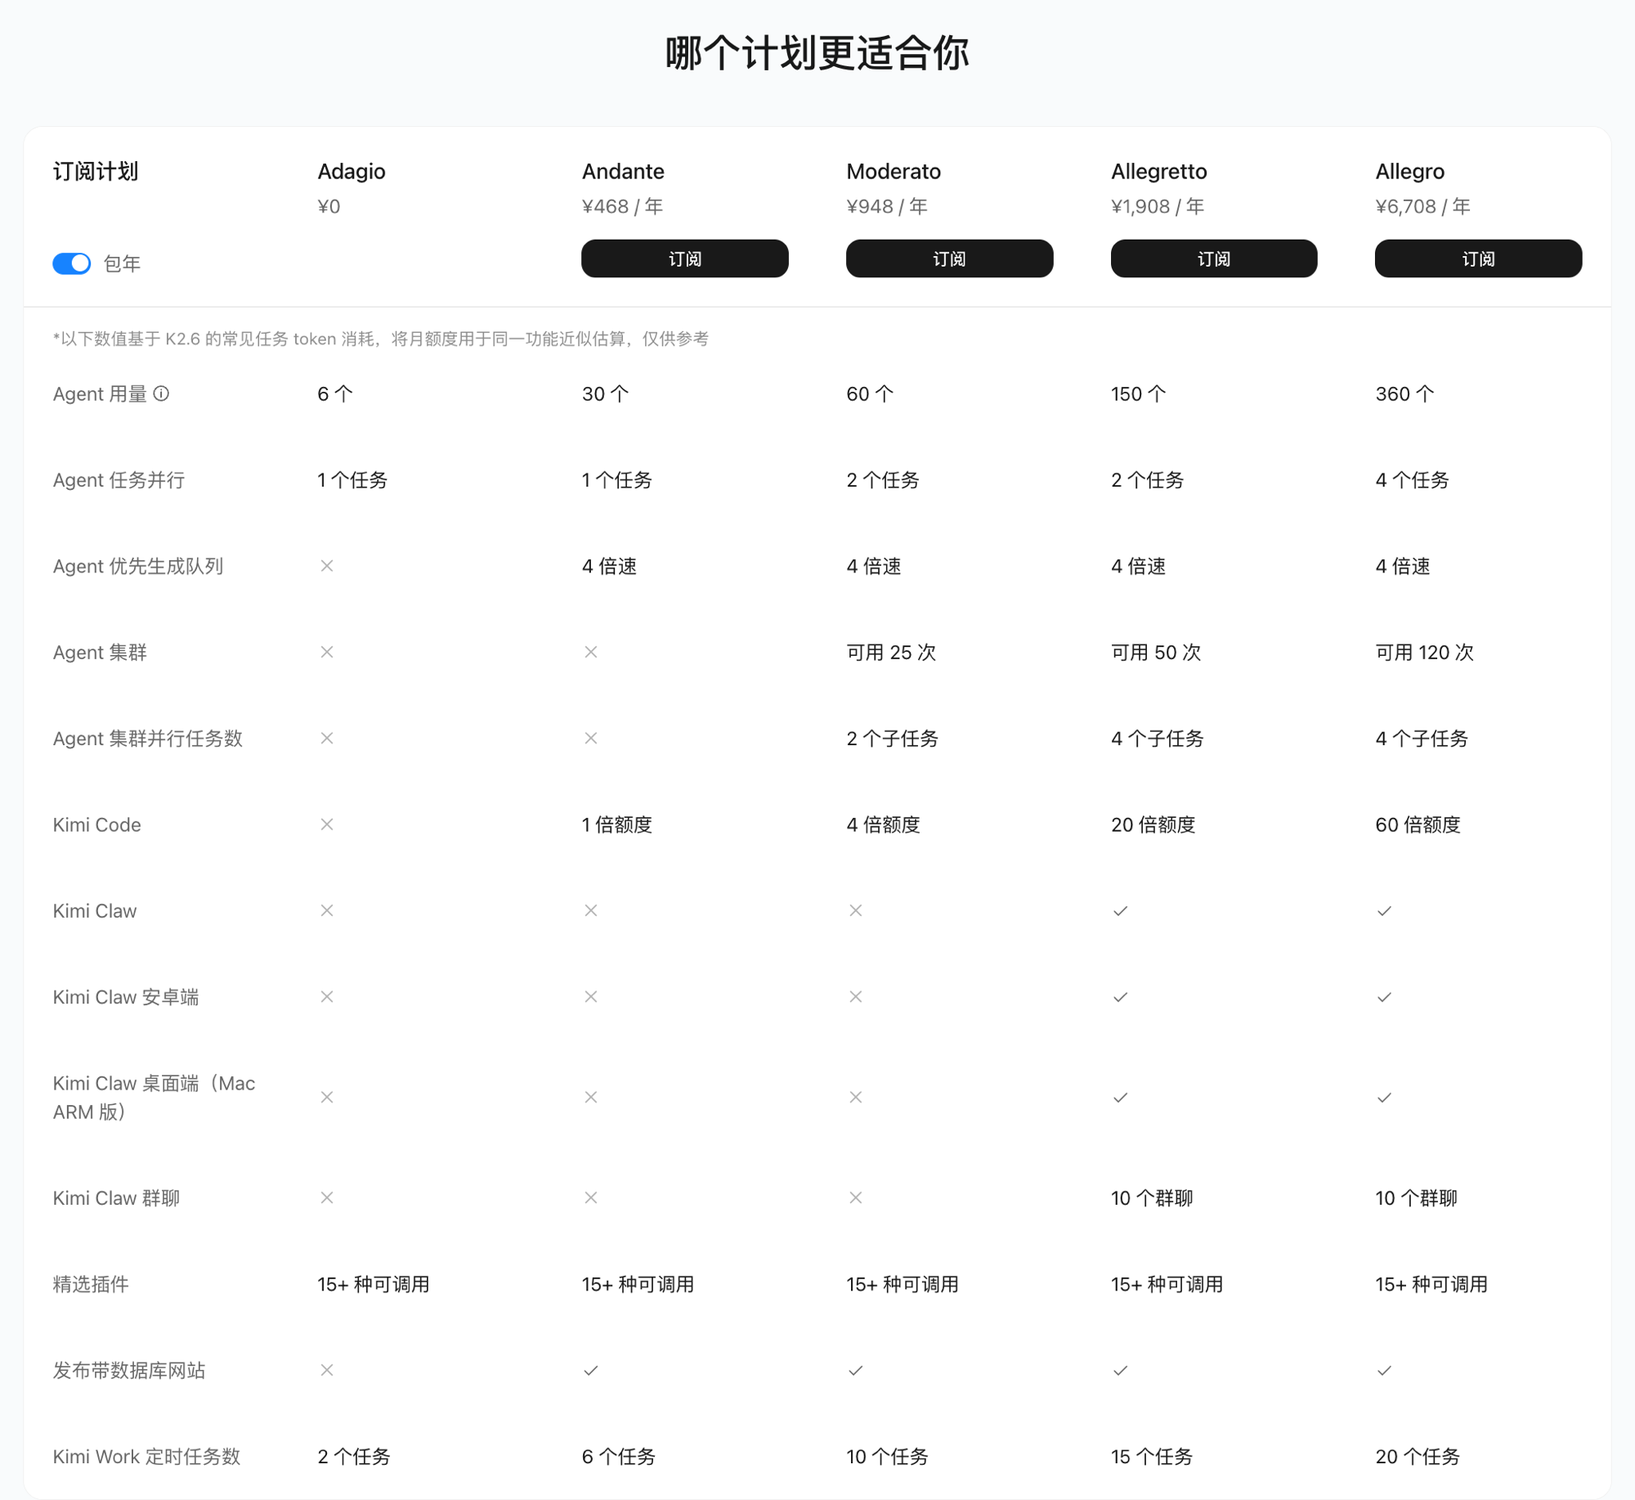
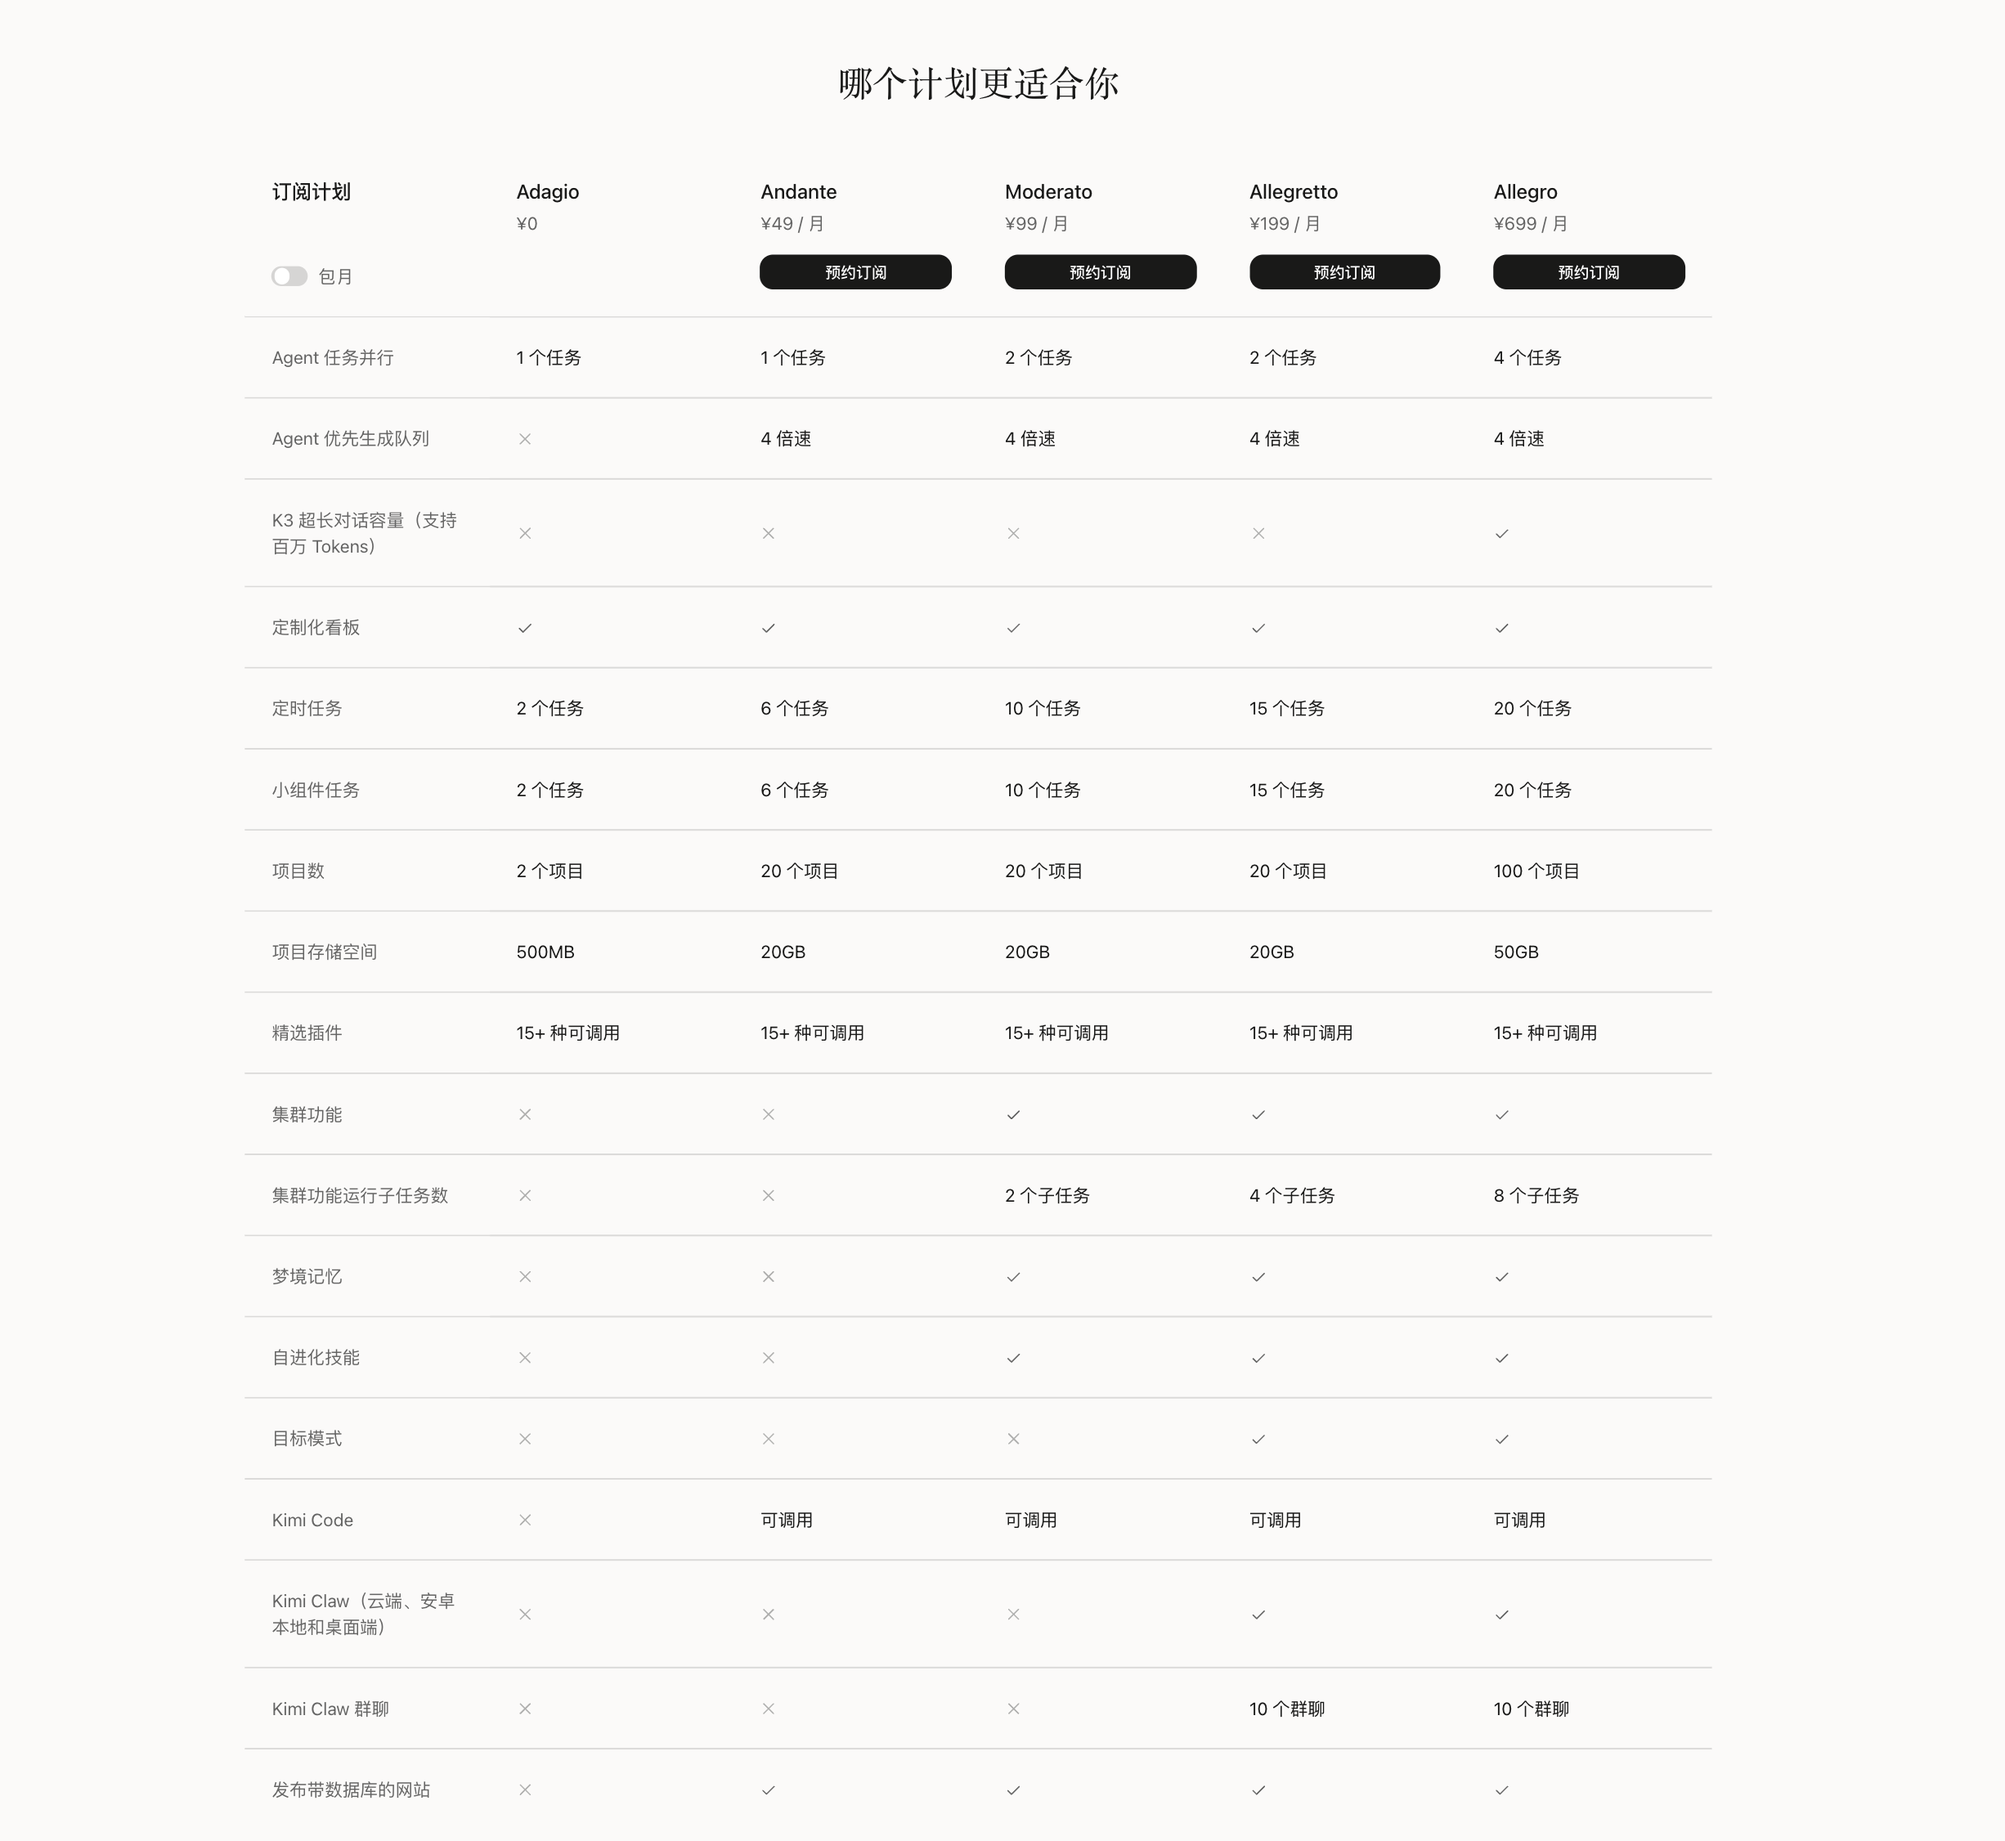
docs(membership): sync zh-CN overview/pricing with current product pricing page
Kimi Code no longer has per-tier credit multipliers — it's now a flat
"available" flag across all tiers. Removed the stale 1x/4x/20x/60x figures
from overview.md and pricing.md.

overview.md:
- Expand "探索性功能" and "哪个计划更适合你" tables to match the current
  product pricing page: add dashboard widgets, scheduled/widget task counts,
  goal mode, dream memory, self-evolving skills, Kimi Claw group chat,
  million-token context, project count/storage.
- Merge "一键部署 Kimi Claw" / "安卓手机部署 Kimi Claw Android" into one
  "专属 Kimi Claw" row; split "专业数据库" into paid-database access and
  database-backed website publishing.
- Fix Allegro Agent Swarm concurrent subtasks: 4 -> 8 (confirmed against
  live product page).

pricing.md:
- Rewrite 各套餐权益详情 so Moderato/Allegretto/Allegro are all framed
  "在 Andante 基础上" with absolute per-tier values, instead of each
  referencing the tier immediately below (all underlying multipliers are
  Andante-relative, not cumulative).
- Same Kimi Claw merge / 专业数据库 split / Allegro subtask fix as above.
- Fix "额度用完了怎么办" FAQ: stop implying the shared credit pool refreshes
  every 5h/week (that limit only applies to Kimi Code); add Extra Usage
  top-up as an option.

Replaced overview-01.png / overview-03.png (shared by both articles) with
current screenshots of the product pricing page.

Adagio still appears on the live pricing page's comparison table (and thus
in the new overview-03.png screenshot) but is intentionally not mentioned
[…]

diff --git a/zh-CN/membership/overview.md b/zh-CN/membership/overview.md
@@ -35,7 +35,7 @@ Kimi 提供四档会员订阅套餐，满足从个人日常到专业重度使用
 | 深度研究 | ✅ | ✅ | ✅ | ✅ |
 | 网站部署 | ✅ | ✅ | ✅ | ✅ |
 | Agent 多任务并行 | — | ✅ | ✅ | ✅ |
-| Kimi Code | 可调用 | 4 倍额度 | 20 倍额度 | 60 倍额度 |
+| Kimi Code | 可调用 | 可调用 | 可调用 | 可调用 |
 
 > **Agent 用量说明**：Agent 额度可用于 Office 文件处理、深度研究、网站部署等 Agent 功能。
 
@@ -43,14 +43,19 @@ Kimi 提供四档会员订阅套餐，满足从个人日常到专业重度使用
 
 |  | Andante ¥49/月 | Moderato ¥99/月 | Allegretto ¥199/月 | Allegro ¥699/月 |
 | --- | --- | --- | --- | --- |
-| 一键部署 Kimi Claw | — | — | ✅ | ✅ |
-| 安卓手机部署 Kimi Claw Android | — | — | ✅ | ✅ |
-| 专业数据库 | ✅  | ✅ | ✅ | ✅ |
+| 定制化看板，包含小组件任务 | ✅ | ✅ | ✅ | ✅ |
+| 定时任务，自动执行推送 | ✅ | ✅ | ✅ | ✅ |
+| 目标模式，Agent 自主推进完成 | — | — | ✅ | ✅ |
 | Agent 集群 | — | ✅ | ✅ | ✅ |
+| 专属 Kimi Claw | — | — | ✅ | ✅ |
+| 精选插件 | ✅ | ✅ | ✅ | ✅ |
+| 支持同花顺、天眼查等付费数据库 | ✅ | ✅ | ✅ | ✅ |
+| 制作并发布带数据库的网站 | ✅ | ✅ | ✅ | ✅ |
+| 支持百万 Tokens 超长对话容量 | — | — | — | ✅ |
 
 <Callout type="tip">
-- **专业数据库**：支持同花顺、天眼查等金融、经济、学术领域数据源。
-- **Agent 集群**：多 Agent 并行、数据生产力，适用海量搜索、长文写作、批量处理。
+- **支持同花顺、天眼查等付费数据库**：涵盖金融、经济、学术领域数据源。
+- **Agent 集群**：多 Agent 并行、数倍生产力，适用海量搜索、长文写作、批量处理。
 </Callout>
 
 ## 哪个计划更适合你
@@ -60,21 +65,26 @@ Kimi 提供四档会员订阅套餐，满足从个人日常到专业重度使用
   alt="套餐对比"
 />
 
-> 以下数值基于常见任务 token 消耗，将月额度用于同一功能的估算，仅供参考。
-
 |  | Andante ¥49/月 | Moderato ¥99/月 | Allegretto ¥199/月 | Allegro ¥699/月 |
 | --- | --- | --- | --- | --- |
-| Agent 用量 | 30 个 | 60 个 | 150 个 | 360 个 |
 | Agent 任务并行 | 1 个任务 | 2 个任务 | 2 个任务 | 4 个任务 |
 | Agent 优先生成队列 | 4 倍速 | 4 倍速 | 4 倍速 | 4 倍速 |
-| Agent 集群 | — | 可用 25 次 | 可用 50 次 | 可用 120 次 |
-| Agent 集群并行任务数 | — | 2 个子任务 | 4 个子任务 | 4 个子任务 |
-| Kimi Code | 1 倍额度 | 4 倍额度 | 20 倍额度 | 60 倍额度 |
-| Kimi Claw | — | — | ✅ | ✅ |
-| Kimi Claw Android | — | — | ✅ | ✅ |
-| 专业数据库 | 1000 次调用 | 2000 次调用 | 5000 次调用 | 12000 次调用 |
-
-> **Agent 用量说明**：Agent 额度可用于 Office 文件处理、深度研究、网站部署等 Agent 功能。
+| K3 超长对话容量（支持百万 Tokens） | — | — | — | ✅ |
+| 定制化看板 | ✅ | ✅ | ✅ | ✅ |
+| 定时任务 | 6 个任务 | 10 个任务 | 15 个任务 | 20 个任务 |
+| 小组件任务 | 6 个任务 | 10 个任务 | 15 个任务 | 20 个任务 |
+| 项目数 | 20 个项目 | 20 个项目 | 20 个项目 | 100 个项目 |
+| 项目存储空间 | 20GB | 20GB | 20GB | 50GB |
+| 精选插件 | 15+ 种可调用 | 15+ 种可调用 | 15+ 种可调用 | 15+ 种可调用 |
+| 集群功能 | — | ✅ | ✅ | ✅ |
+| 集群功能运行子任务数 | — | 2 个子任务 | 4 个子任务 | 8 个子任务 |
+| 梦境记忆 | — | ✅ | ✅ | ✅ |
+| 自进化技能 | — | ✅ | ✅ | ✅ |
+| 目标模式 | — | — | ✅ | ✅ |
+| Kimi Code | 可调用 | 可调用 | 可调用 | 可调用 |
+| Kimi Claw（云端、安卓本地和桌面端） | — | — | ✅ | ✅ |
+| Kimi Claw 群聊 | — | — | 10 个群聊 | 10 个群聊 |
+| 发布带数据库的网站 | ✅ | ✅ | ✅ | ✅ |
 
 ### 使用场景与推荐
 
@@ -149,8 +159,9 @@ Token 是大语言模型处理文本的最小单位。中文里，1 个汉字通
 
 当前正在进行的任务可以正常完成，新任务将提示额度不足。你可以：
 
-- 等待额度自动刷新（5 小时 / 周度 / 月度刷新，以页面提示为准）
+- 等待额度按月自动刷新（Kimi Code 的 5 小时 / 周使用限额到期后也会自动解除，仅影响 Kimi Code）
 - 升级至更高等级会员获取更多额度
+- 购买[加油包](/membership/membership-extra-usage)：开启后按实际用量付费，无需等待额度刷新即可继续使用
 - 参与官方活动获取赠送额度
 
 ### 可以把额度都用在一个功能上吗？

diff --git a/zh-CN/membership/pricing.md b/zh-CN/membership/pricing.md
@@ -44,8 +44,12 @@ Kimi 提供四档会员计划，均支持连续包月和连续包年两种订阅
 - Agent 用量约 30 个
 - Agent 优先生成队列（4 倍速）
 - Office 文件处理、深度研究、网站部署
-- Kimi Code 1 倍额度
+- Kimi Code 可调用
+- 定制化看板，含小组件任务（6 个）、定时任务（6 个）
+- 精选插件（15+ 种可调用）
 - 专业数据库 1000 次调用
+- 制作并发布带数据库的网站
+- 项目数 20 个，项目存储空间 20GB
 
 ### Moderato — ¥99/月
 
@@ -54,27 +58,38 @@ Kimi 提供四档会员计划，均支持连续包月和连续包年两种订阅
 - Agent 用量约 60 个
 - Agent 任务并行 2 个
 - Agent 集群可用 25 次（2 个子任务并行）
-- Kimi Code 4 倍额度
+- 梦境记忆、自进化技能
+- 定时任务、小组件任务各 10 个
+- Kimi Code 可调用
 - 专业数据库 2000 次调用
 
 ### Allegretto — ¥199/月
 
-在 Moderato 基础上：
+在 Andante 基础上：
 
 - Agent 用量约 150 个
-- Kimi Code 20 倍额度
-- 一键部署 Kimi Claw / Kimi Claw Android
+- Agent 任务并行 2 个
 - Agent 集群可用 50 次（4 个子任务并行）
+- 梦境记忆、自进化技能
+- 目标模式，Agent 自主推进完成
+- 专属 Kimi Claw，支持 10 个 Kimi Claw 群聊
+- 定时任务、小组件任务各 15 个
+- Kimi Code 可调用
 - 专业数据库 5000 次调用
 
 ### Allegro — ¥699/月
 
-在 Allegretto 基础上：
+在 Andante 基础上：
 
 - Agent 用量约 360 个
 - Agent 任务并行 4 个
-- Kimi Code 60 倍额度
-- Agent 集群可用 120 次（4 个子任务并行）
+- Agent 集群可用 120 次（8 个子任务并行）
+- 梦境记忆、自进化技能
+- 目标模式，Agent 自主推进完成
+- 专属 Kimi Claw，支持 10 个 Kimi Claw 群聊
+- 支持百万 Tokens 超长对话容量
+- 定时任务、小组件任务各 20 个，项目数 100 个，项目存储空间 50GB
+- Kimi Code 可调用
 - 专业数据库 12000 次调用
 
 <Callout type="tip">
@@ -111,8 +126,9 @@ Kimi 提供四档会员计划，均支持连续包月和连续包年两种订阅
 
 当前正在进行的任务可以正常完成，新任务将提示额度不足。你可以：
 
-- 等待额度自动刷新（5 小时 / 周度 / 月度刷新，以页面提示为准）
+- 等待额度按月自动刷新（Kimi Code 的 5 小时 / 周使用限额到期后也会自动解除，仅影响 Kimi Code）
 - 升级至更高等级会员获取更多额度
+- 购买[加油包](/membership/membership-extra-usage)：开启后按实际用量付费，无需等待额度刷新即可继续使用
 - 参与官方活动获取赠送额度
 
 ### 可以把额度都用在一个功能上吗？
